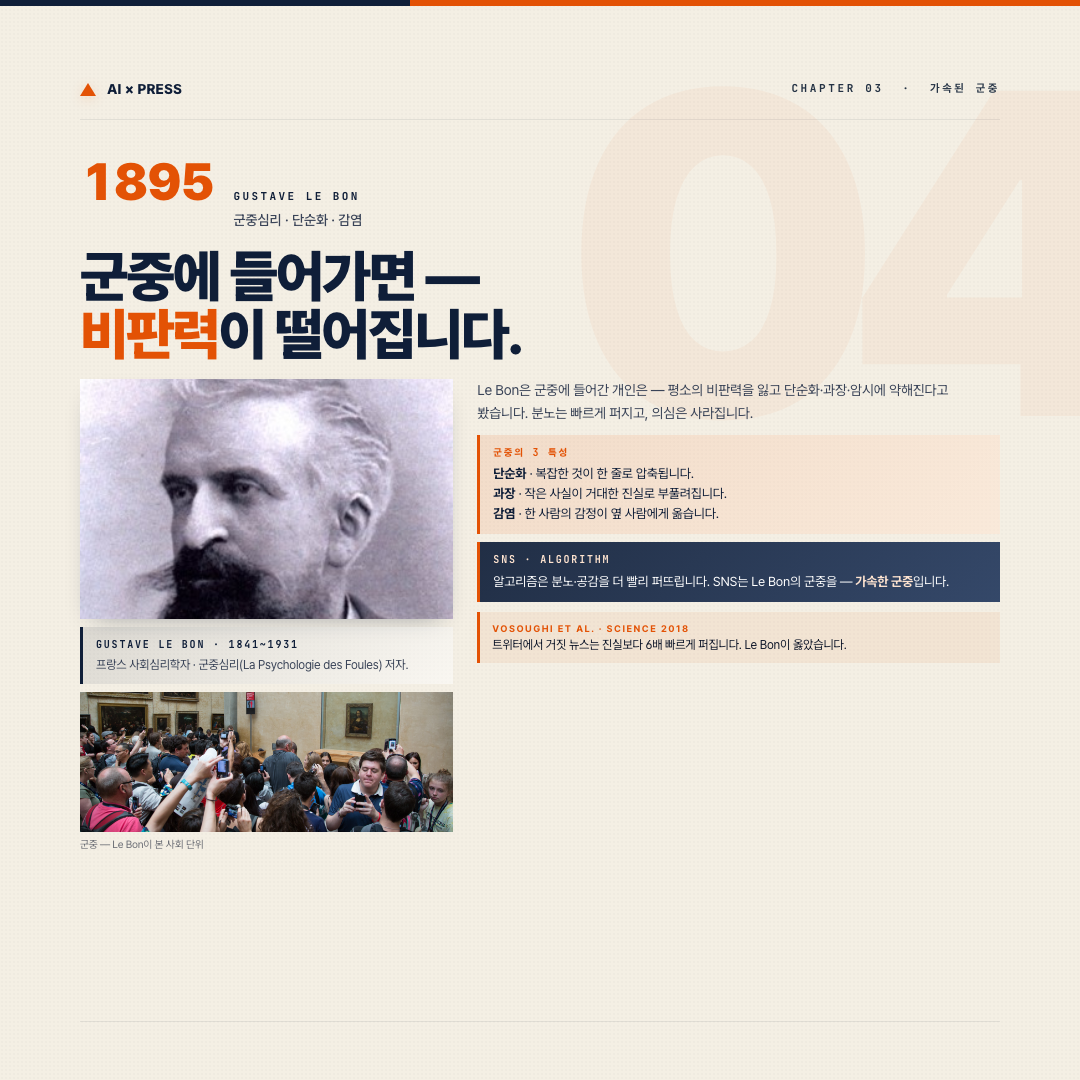
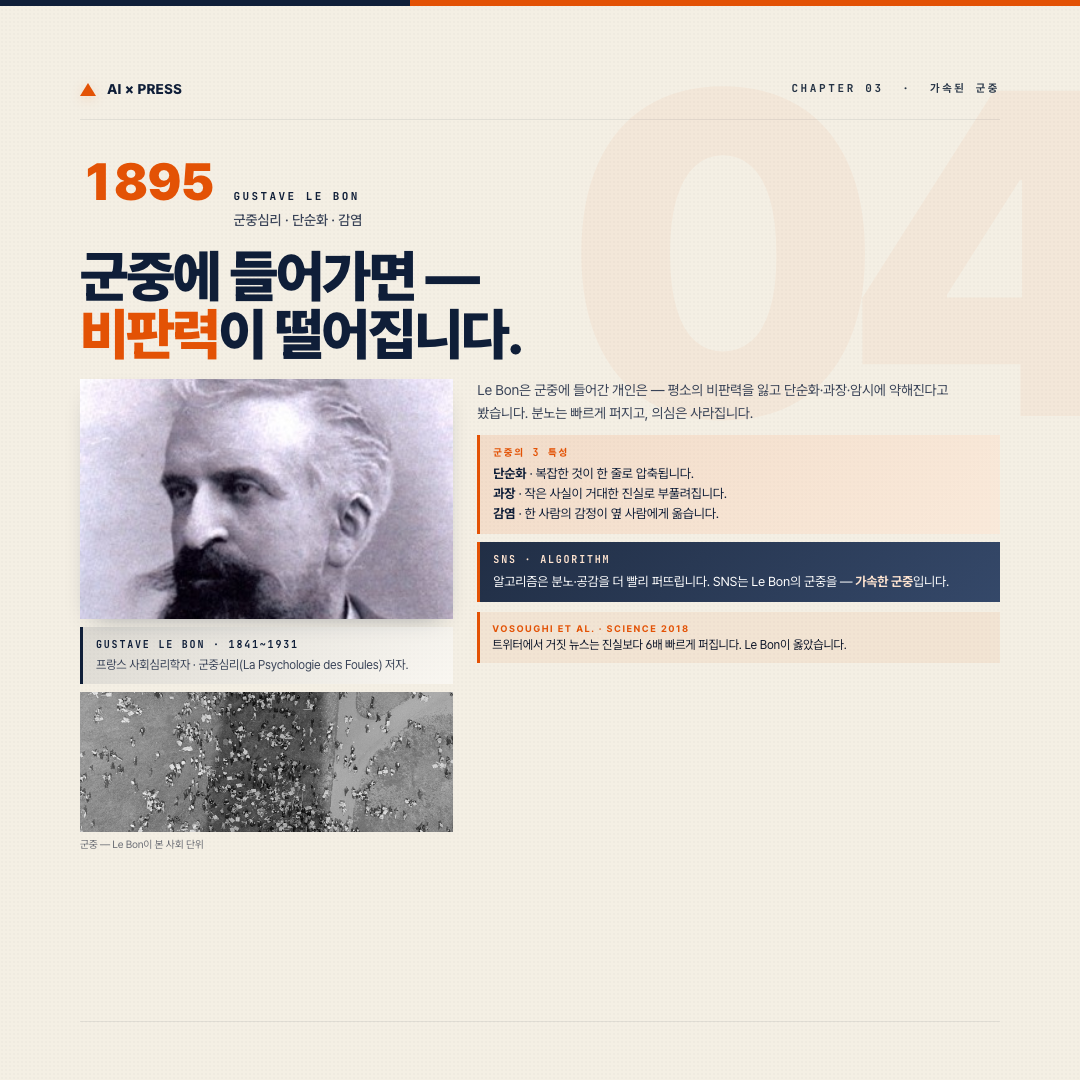
fix(press 04): mona-lisa-crowd → 워싱턴 행진 군중 사진으로 교체
Le Bon 1895 군중심리 슬라이드의 이미지가 모나리자 앞 인파였던 게 어색해 —
Wikimedia Commons의 'Aerial view of marchers in the shadow of the Washington Monument'
(1963 Civil Rights March, NARA Public Domain)로 교체. 군중의 본래 의미에 부합.

Changed region(s): [[0.0611, 0.6417, 0.4278, 0.7944]]

diff --git a/38-cards-press/04-lebon.html b/38-cards-press/04-lebon.html
@@ -26,7 +26,7 @@
           <div style="font-size:12px; color:var(--ink-body); margin-top:3px; line-height:1.55;">프랑스 사회심리학자 &middot; <i>군중심리(La Psychologie des Foules)</i> 저자.</div>
         </div>
         <div style="margin-top:8px; height:140px; overflow:hidden;">
-          <img src="../images/mona-lisa-crowd.jpg" alt="Crowd" style="width:100%; height:100%; object-fit:cover; object-position:center 50%;" />
+          <img src="../images/crowd.jpg" alt="Crowd" style="width:100%; height:100%; object-fit:cover; object-position:center 50%;" />
         </div>
         <div style="font-size:10.5px; opacity:0.6; margin-top:4px;">군중 &mdash; Le Bon이 본 사회 단위</div>
       </div>
